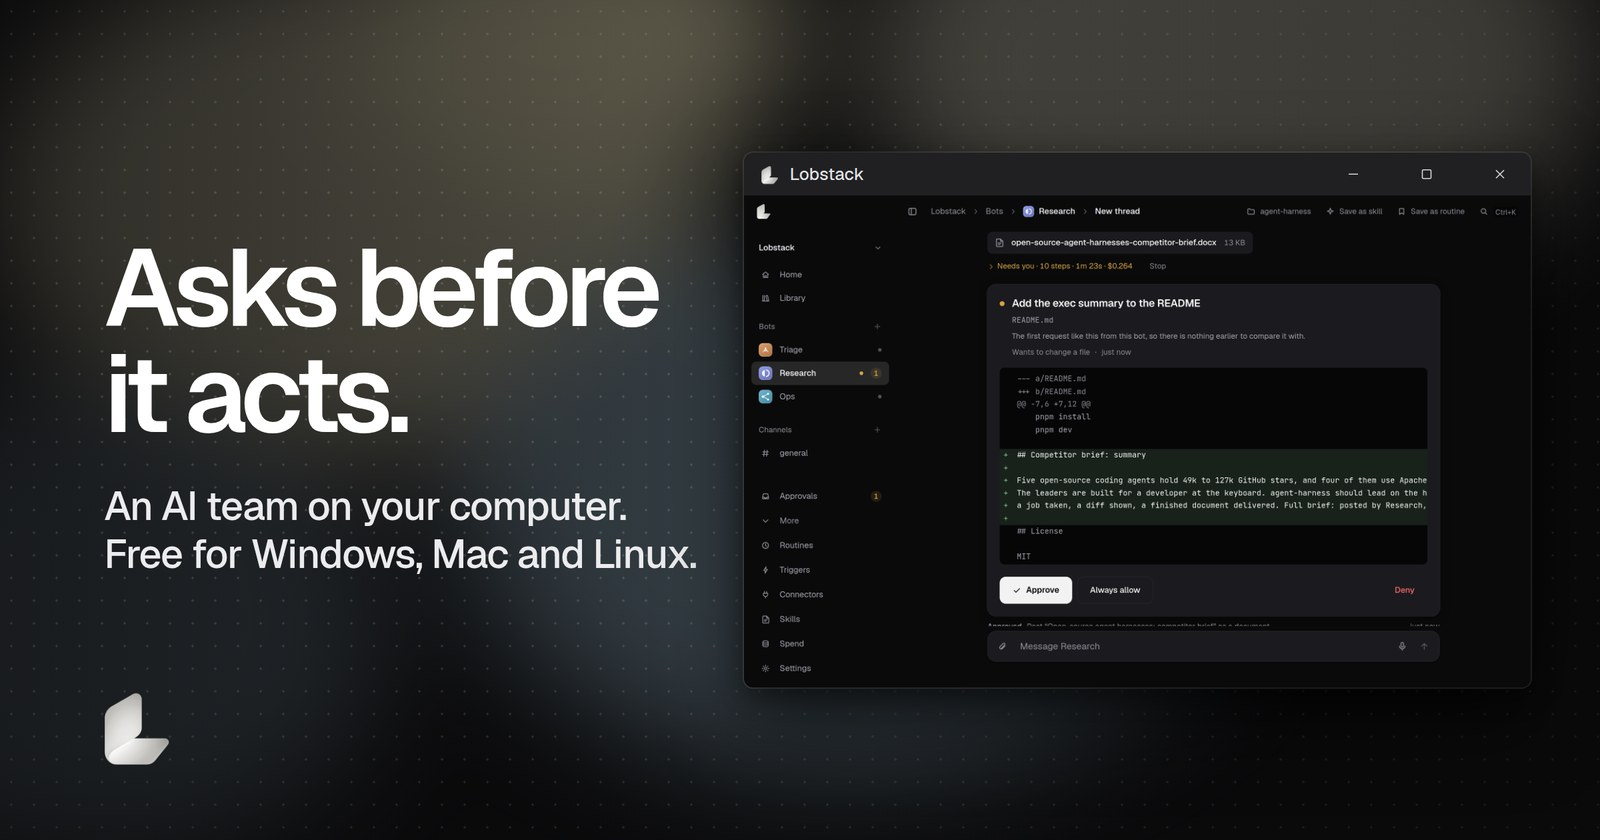
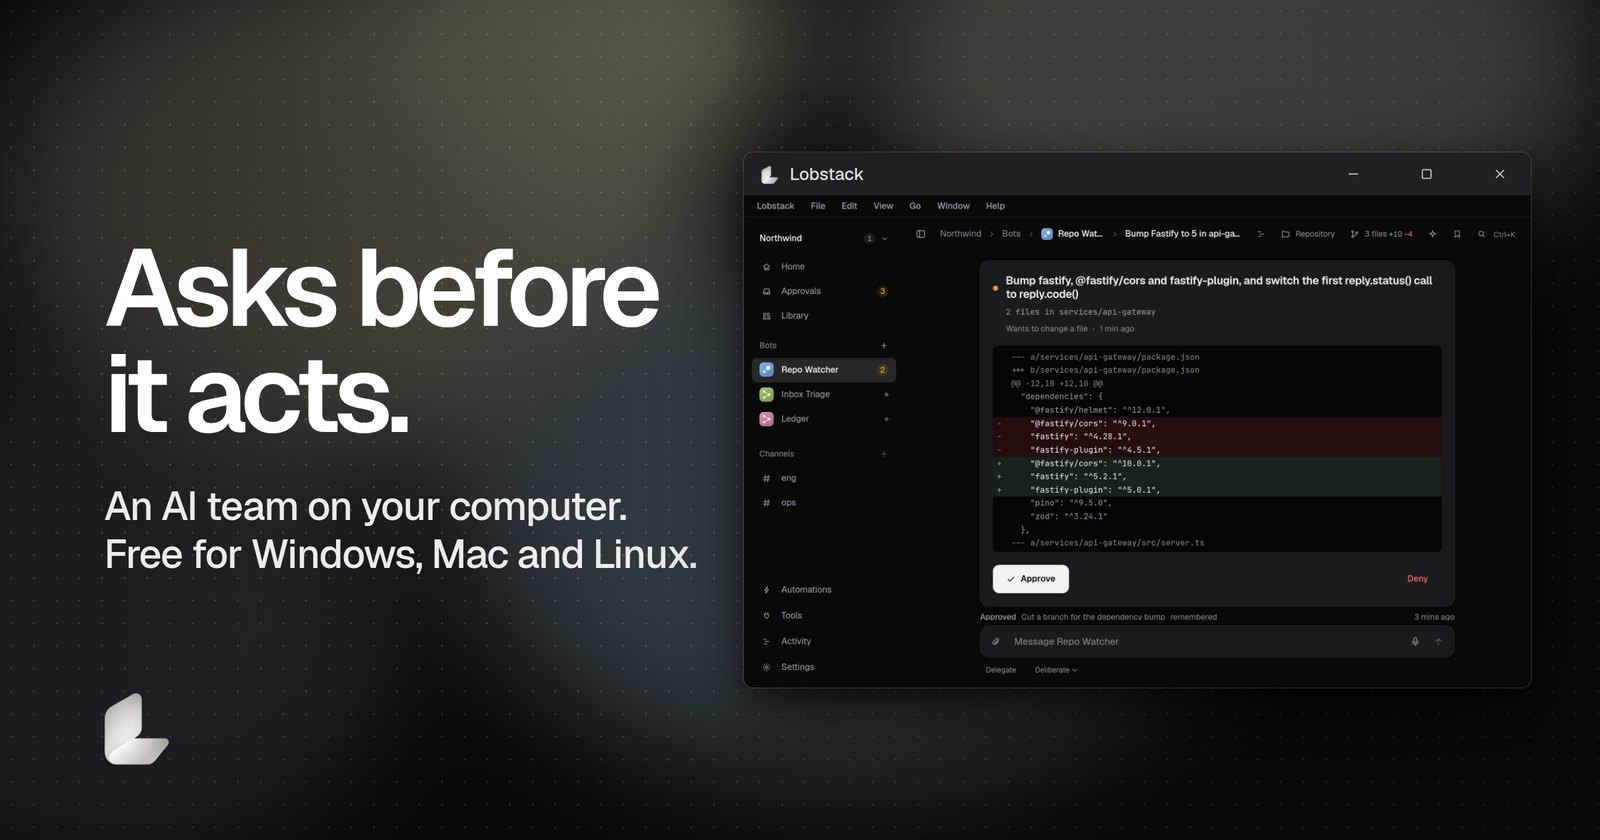
Org profile: the app as it is at 0.11.3, five providers, the macOS 15 step
- The hero card is the site's current one: the 0.11 sidebar and menu bar,
  in place of the 0.9 layout.
- The app hands over decks, sheets, designs and apps in a canvas, and takes
  a whole job with a plan first.
- Free is $1 of credit every week (pricing.ts weeklyCreditUsd).
- macOS 15 has no right-click Open: Done, then Privacy & Security, Open Anyway.
- The API lists five providers (LISTED_PROVIDERS), not 26 models from 9.

Claude-Session: https://claude.ai/code/session_01MnFnR1tuPQjvZoGmvo4xV7

diff --git a/profile/README.md b/profile/README.md
@@ -1,7 +1,7 @@
 <div align="center">
 
 <a href="https://www.lobstack.ai/download">
-  <img src="https://raw.githubusercontent.com/Lobstack-ai/.github/main/profile/assets/lobstack.jpg" alt="Lobstack: Asks before it acts. An AI team on your computer, free for Windows, Mac and Linux. Beside it, the Lobstack app holding a file change for approval." width="900">
+  <img src="https://raw.githubusercontent.com/Lobstack-ai/.github/main/profile/assets/lobstack.jpg" alt="Lobstack: Asks before it acts. An AI team on your computer, free for Windows, Mac and Linux. Beside it, the Lobstack app holding a dependency change for approval." width="900">
 </a>
 
 <br>
@@ -33,17 +33,21 @@ and it does the job in your real tools.
   running a command or pushing code waits for you to press Approve.
 - **It works where you work.** Your repos, your files, and the services you
   connect with one-click sign-in. It can search and read the web.
-- **It hands you the finished thing.** Bots can write Word and PDF documents,
-  with real charts, and keep them in your Library.
-- **It keeps working.** Routines run on a schedule while the app is open.
+- **It hands you the finished thing.** Documents, slide decks, spreadsheets,
+  designs and small apps open in a canvas beside the chat, and stay in your
+  Library.
+- **It keeps working.** Hand it a whole job and it plans first, then works in
+  the background. Routines and triggers run while the app is running.
 
 **Free to download.** Your first sign-in from the app adds $5 of credit for 30
-days, with no card. After that it runs on the Free plan, or on a paid plan.
+days, with no card. After that, the Free plan gives $1 of credit every week,
+or you choose a paid plan.
 The app uses the Lobstack API by default; GitHub Copilot or your own provider
 key also work.
 
-It is a public beta. It is not code-signed yet, so Windows warns once on the
-first run and macOS needs a right-click → Open the first time.
+It is a public beta and not code-signed yet. Windows warns once on the first
+run (More info → Run anyway). On macOS 15, press Done, then open System
+Settings → Privacy & Security and press Open Anyway.
 
 [**Download →**](https://www.lobstack.ai/download)
 
@@ -51,8 +55,9 @@ first run and macOS needs a right-click → Open the first time.
 
 ## The Lobstack API
 
-One OpenAI-compatible endpoint for 26 models from 9 providers. Keep the OpenAI
-SDK you already use and change the base URL and the key:
+One OpenAI-compatible endpoint and one key for models from five providers:
+Anthropic, OpenAI, Google, xAI and DeepSeek. Keep the OpenAI SDK you already
+use and change the base URL and the key:
 
 ```
 https://www.lobstack.ai/api/gateway/v1
